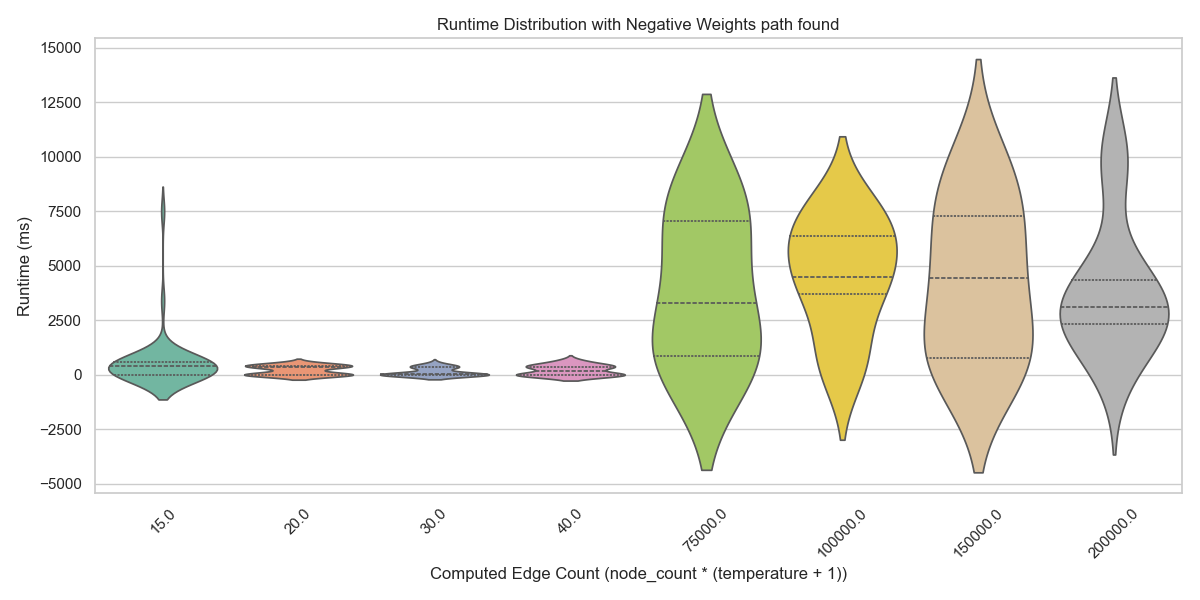
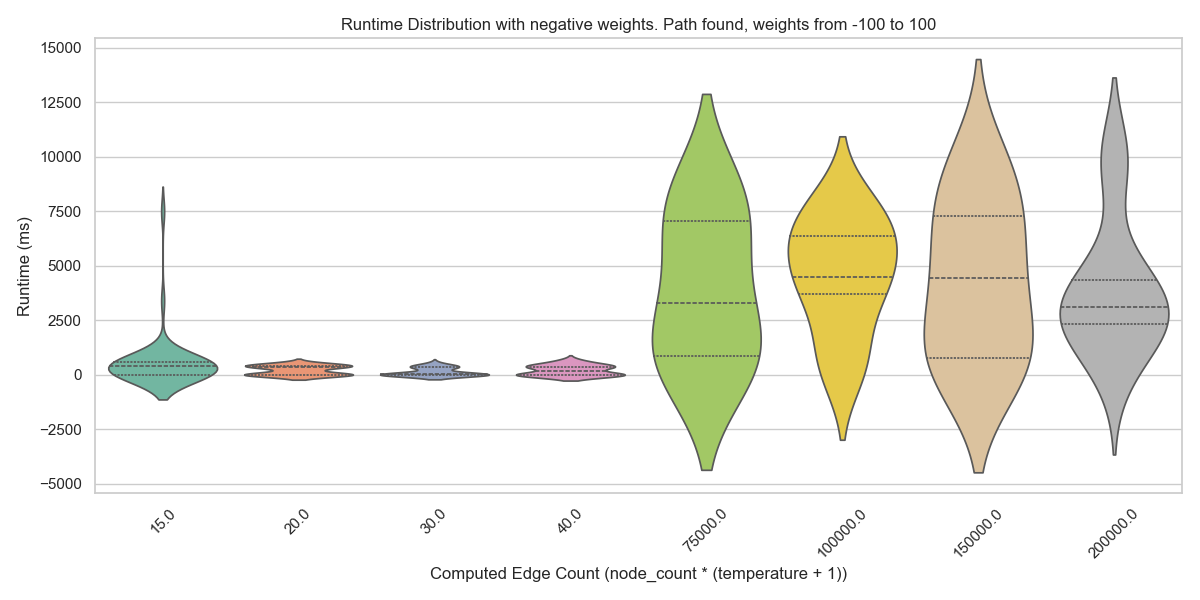
Added and corrected graphs for BF and FW

Changed region(s): [[0.2775, 0.03, 0.8017, 0.06]]

diff --git a/Lab02/src/ShortestPathProblem_Algorithms/ShortestPathProblem_Algorithms/data_analyzer_bf.py b/Lab02/src/ShortestPathProblem_Algorithms/ShortestPathProblem_Algorithms/data_analyzer_bf.py
@@ -41,7 +41,6 @@ for value in [True, False]:
     subset = df[df['negative_weights_included'] == value]
     for found in [True, False]:
         second_subset = subset[df['path_was_found'] == found]
-
         plt.figure(figsize=(12, 6))
         sns.violinplot(
             x='computed_edge_count',
@@ -54,9 +53,41 @@ for value in [True, False]:
 
         label = 'with' if value else 'without'
         second_label = 'found' if found else 'not found'
-        plt.title(f'Runtime Distribution {label} Negative Weights path {second_label}')
+        
+        if value:
+            plt.title(f'Runtime Distribution {label} negative weights. Path {second_label}, weights from -100 to 100')
+        else:
+            plt.title(f'Runtime Distribution {label} negative weights. Path {second_label} weights from 0 to 100')
+                
         plt.xlabel('Computed Edge Count (node_count * (temperature + 1))')
         plt.ylabel('Runtime (ms)')
+        #plt.yscale('log')
+        plt.xticks(rotation=45)
+        plt.tight_layout()
+        plt.show()
+        
+        sns.pointplot(
+        x='computed_edge_count',
+        y='runtime_in_ms',
+        data=second_subset,
+        estimator='mean',
+        errorbar='sd',  # Standard deviation
+        color='black',
+        markers='D',
+        linestyles='--'
+        )
+
+        label = 'with' if value else 'without'
+        second_label = 'found' if found else 'not found'
+        
+        if value:
+            plt.title(f'Runtime Distribution {label} negative weights. Path {second_label}, weights from -100 to 100')
+        else:
+            plt.title(f'Runtime Distribution {label} negative weights. Path {second_label} weights from 0 to 100')
+                
+        plt.xlabel('Computed Edge Count (node_count * (temperature + 1))')
+        plt.ylabel('Runtime (ms)')
+        #plt.yscale('log')
         plt.xticks(rotation=45)
         plt.tight_layout()
         plt.show()

diff --git a/Lab02/src/ShortestPathProblem_Algorithms/ShortestPathProblem_Algorithms/data_analyzer_fw.py b/Lab02/src/ShortestPathProblem_Algorithms/ShortestPathProblem_Algorithms/data_analyzer_fw.py
@@ -66,6 +66,33 @@ for negW in [True, False]:
                 
         plt.xlabel('Computed Edge Count (node_count * (temperature + 1))')
         plt.ylabel('Runtime (ms)')
+        plt.yscale('log')
+        plt.xticks(rotation=45)
+        plt.tight_layout()
+        plt.show()
+        
+        sns.pointplot(
+        x='computed_edge_count',
+        y='runtime_in_ms',
+        data=second_subset,
+        estimator='mean',
+        errorbar='sd',  # Standard deviation
+        color='black',
+        markers='D',
+        linestyles='--'
+        )
+
+        label = 'with' if negW else 'without'
+        second_label = 'not detected' if not_detected else 'detected'
+        
+        if negW:
+            plt.title(f'Runtime Distribution {label} Negative Weights negative cycle {second_label}, weights from -100 to 100')
+        else:
+            plt.title(f'Runtime Distribution {label} Negative Weights negative cycle {second_label} weights from 0 to 100')
+                
+        plt.xlabel('Computed Edge Count (node_count * (temperature + 1))')
+        plt.ylabel('Runtime (ms)')
+        plt.yscale('log')
         plt.xticks(rotation=45)
         plt.tight_layout()
         plt.show()
